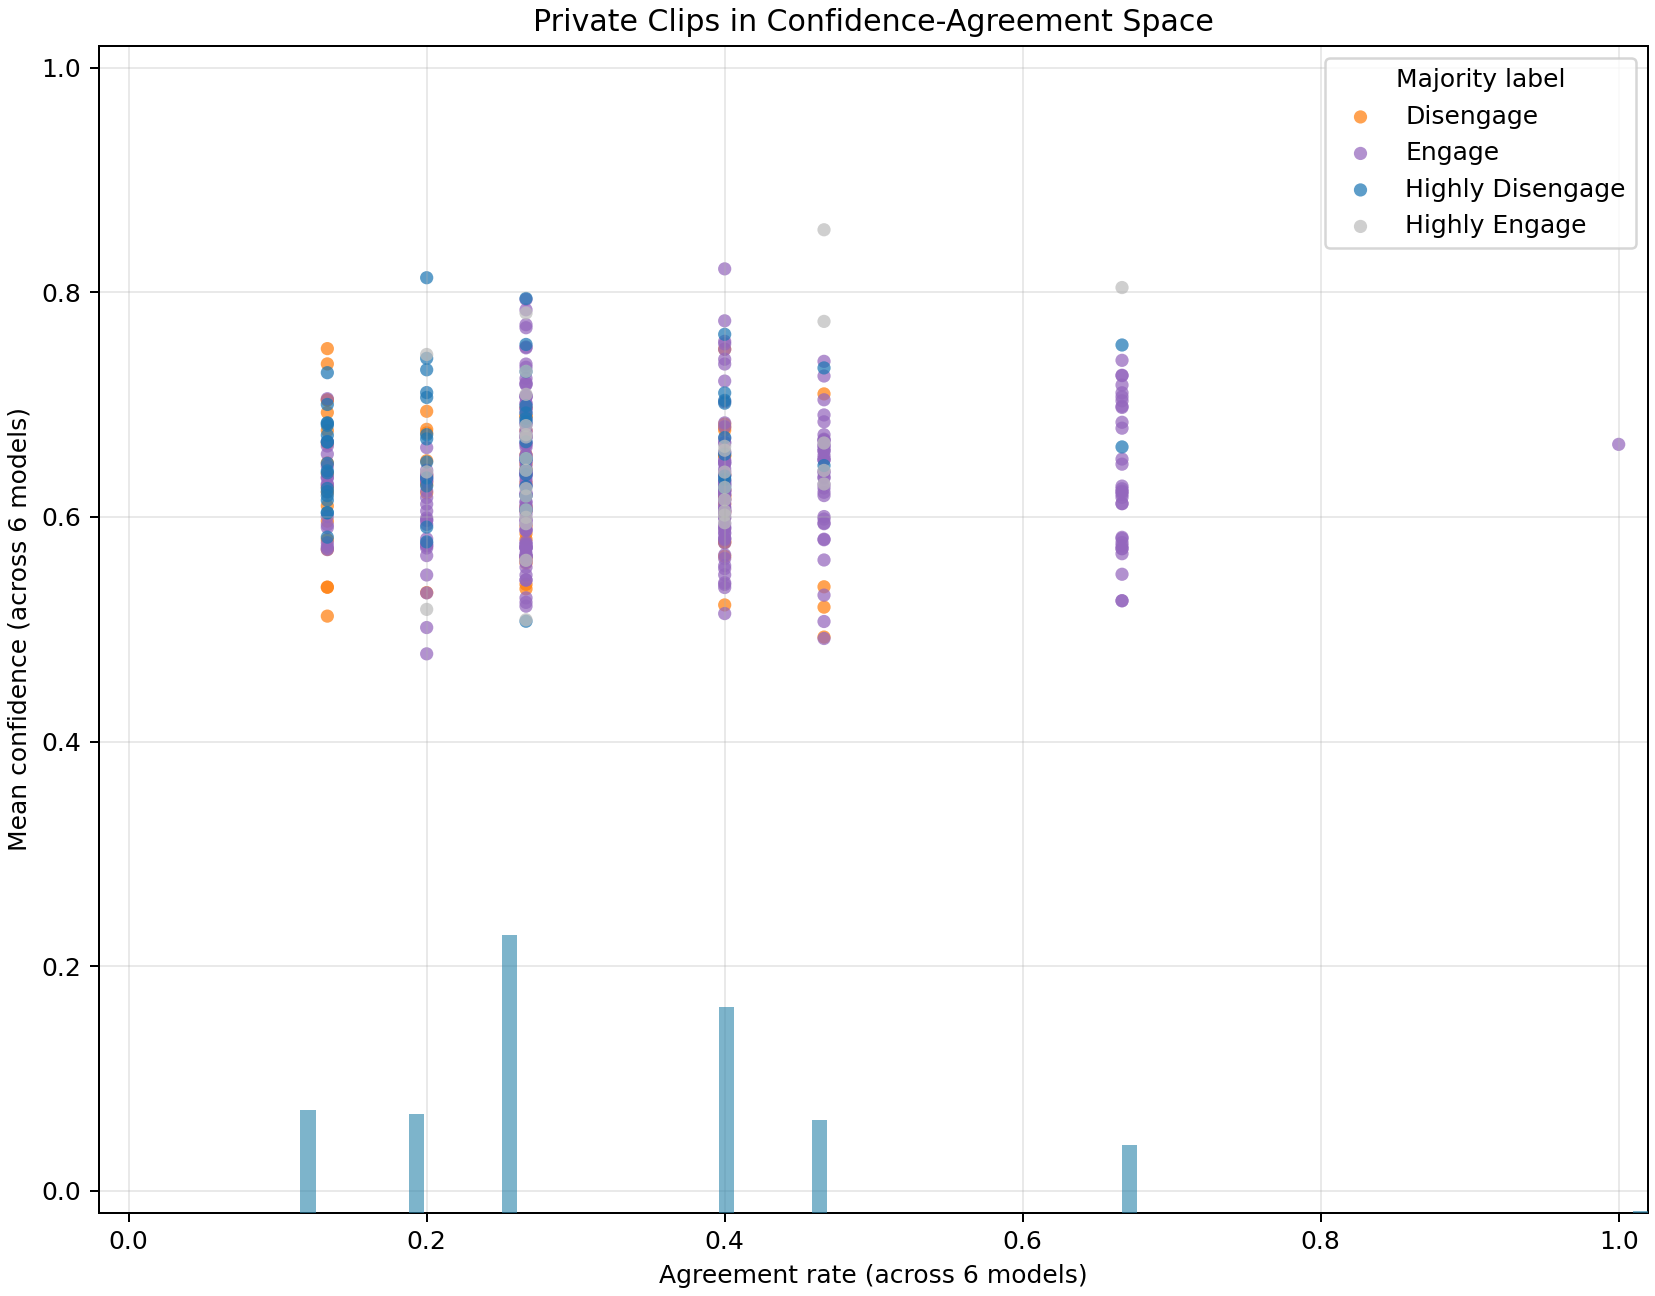
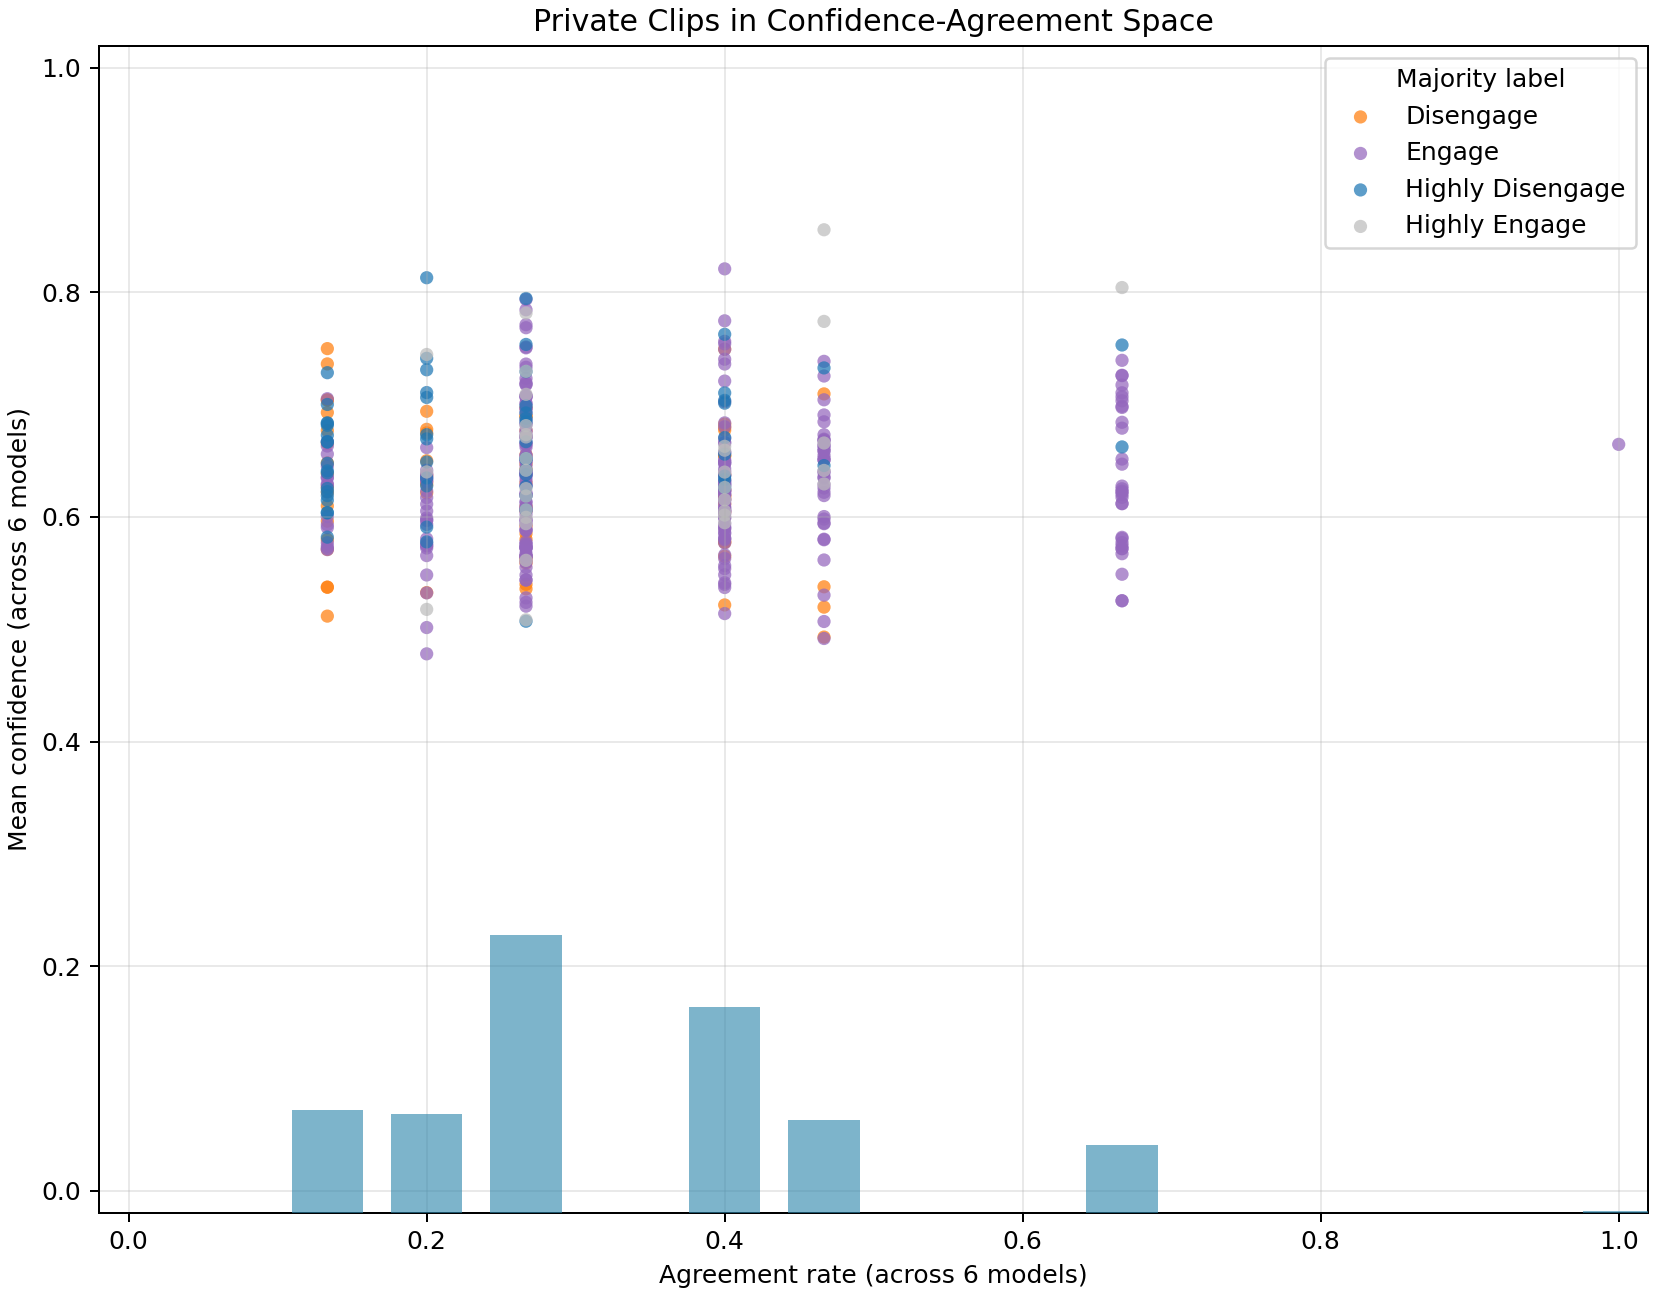
...

Changed region(s): [[0.1541, 0.7099, 0.339, 0.9568], [0.4006, 0.7716, 0.5239, 0.9568], [0.6471, 0.8642, 0.7088, 0.9568]]

diff --git a/src/evaluation/plot_confidence_agreement_scatter.py b/src/evaluation/plot_confidence_agreement_scatter.py
@@ -9,7 +9,6 @@ import matplotlib
 
 matplotlib.use("Agg")
 import matplotlib.pyplot as plt
-import numpy as np
 import pandas as pd
 
 
@@ -27,12 +26,6 @@ def build_parser() -> argparse.ArgumentParser:
         "--output_png",
         default="outputs/domain_shift_analysis/confidence_agreement_scatter.png",
         help="Output scatter image.",
-    )
-    parser.add_argument(
-        "--agreement_bins",
-        type=int,
-        default=100,
-        help="Number of bins for agreement-rate count bar chart.",
     )
     return parser
 
@@ -71,12 +64,20 @@ def main(argv: list[str] | None = None) -> None:
 
     # Overlay: agreement-rate count bars in the lowest quarter of scatter.
     bar_ax = ax.inset_axes([0.0, 0.0, 1.0, 0.25], transform=ax.transAxes)
-    bin_count = max(2, int(args.agreement_bins))
-    counts, edges = np.histogram(df["agreement_rate"].to_numpy(dtype=float), bins=bin_count, range=(0.0, 1.0))
-    centers = (edges[:-1] + edges[1:]) / 2.0
-    widths = np.diff(edges) * 0.98
-    bar_ax.bar(centers, counts, width=widths, color="#2E86AB", edgecolor="none", alpha=0.62)
-    bar_ax.set_xlim(0.0, 1.0)
+    counts_by_rate = df["agreement_rate"].round(12).value_counts().sort_index()
+    x_values = counts_by_rate.index.to_numpy(dtype=float)
+    count_values = counts_by_rate.to_numpy(dtype=int)
+    if len(x_values) > 1:
+        min_spacing = min(
+            current - previous
+            for previous, current in zip(x_values[:-1], x_values[1:])
+            if current > previous
+        )
+        bar_width = min_spacing * 0.72
+    else:
+        bar_width = 0.01
+    bar_ax.bar(x_values, count_values, width=bar_width, color="#2E86AB", edgecolor="none", alpha=0.62)
+    bar_ax.set_xlim(-0.02, 1.02)
     bar_ax.set_facecolor("none")
     bar_ax.set_axis_off()
 
